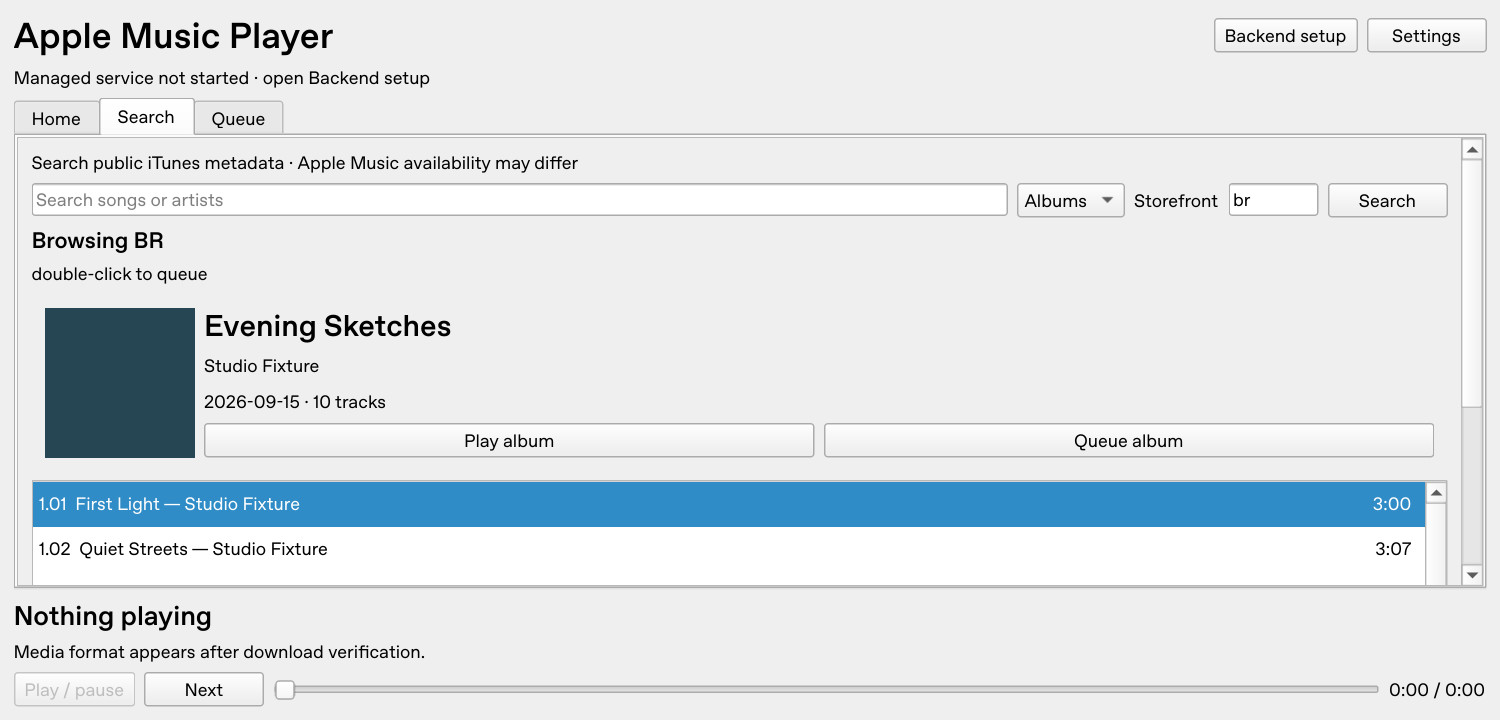
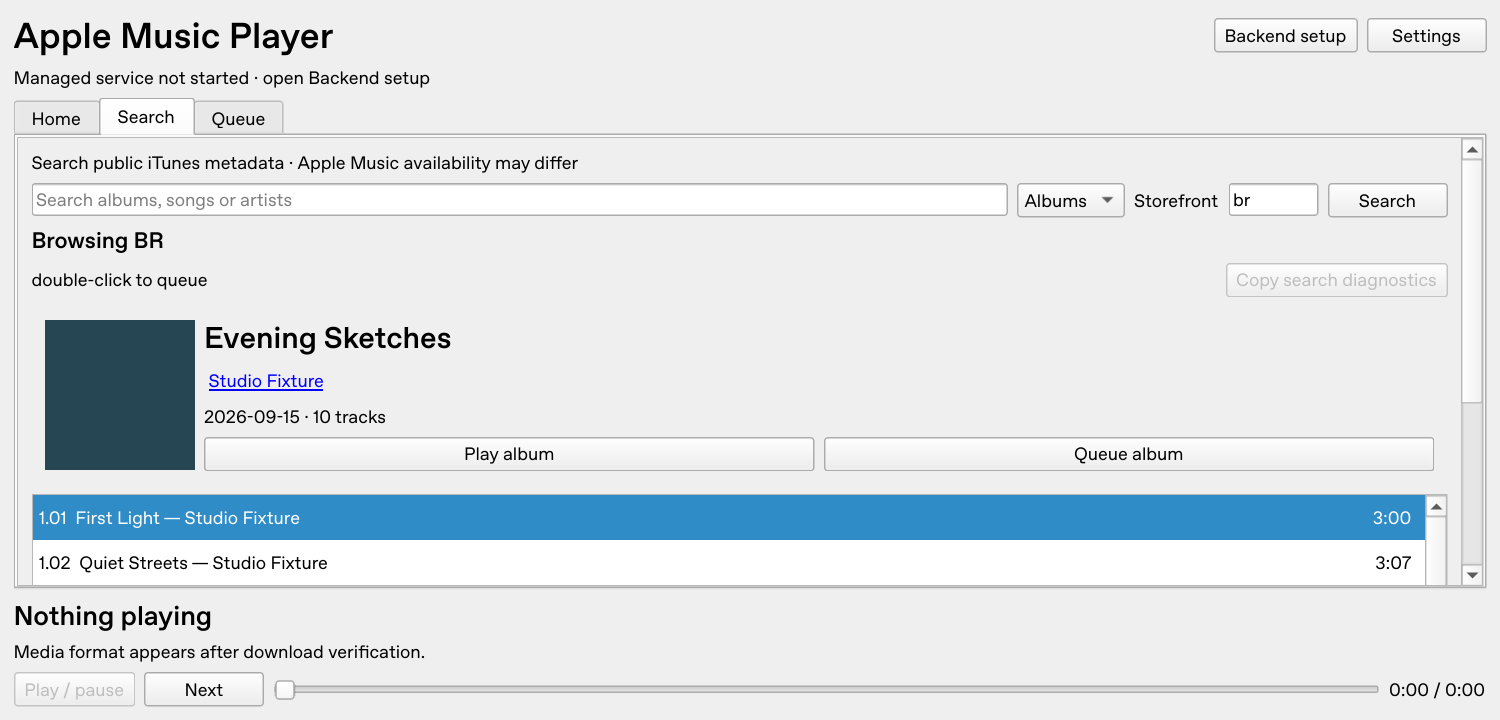
Link album artist names to internal artist browsing

diff --git a/tests/test_artist_browsing.py b/tests/test_artist_browsing.py
@@ -1,6 +1,7 @@
 import json
 import threading
 
+import pytest
 from conftest import wait_until
 from PySide6.QtWidgets import QApplication
 
@@ -141,6 +142,126 @@ def test_stale_artist_lookup_cannot_overwrite_new_region_search(app, tmp_path, m
         wait_until(lambda: (app.processEvents(), window.tick(), window.catalog_future is None)[2])
         assert window.results == [Artist("gb", "302", "New artist", "Alternative")]
         assert window.last_artist_diagnostics is None
+    finally:
+        release.set()
+        window.close()
+
+
+def test_album_artist_button_navigates_by_collection_identity(app, tmp_path, monkeypatch):
+    from PySide6.QtCore import Qt
+    from PySide6.QtTest import QTest
+
+    window = Window(tmp_path / "cache")
+    window.startup_attempted = True
+    monkeypatch.setattr(window.controller, "tick", lambda: None)
+    calls = []
+
+    def request(endpoint, **params):
+        calls.append(params)
+        if params["entity"] == "album":
+            return [ARTIST, ALBUM]
+        return [ALBUM, dict(SONG, artistId=999, artistName="Guest performer")]
+
+    monkeypatch.setattr(window.catalog, "request", request)
+
+    def settle():
+        wait_until(lambda: (app.processEvents(), window.tick(), window.catalog_future is None)[2])
+
+    try:
+        window.show()
+        window.open_album(Album("br", "101", "Atlanta Millionaires Club"))
+        settle()
+        button = window.album_header.artist
+        assert button.isEnabled()
+        assert button.text() == "Faye Webster"
+        assert "Open artist albums" in button.accessibleName()
+        QTest.mouseClick(button, Qt.LeftButton)
+        assert "Loading" in window.catalog_status.text()
+        settle()
+        assert calls[-1] == dict(id="301", country="br", entity="album", limit=200)
+        assert window.results[0].id == "101"
+        window.selected_button.click()
+        settle()
+        assert window.album_header.artist.isEnabled()
+        assert window.album_tracks[0].artist_id == "999"
+        assert window.album_header.album.artist_id == "301"
+        window.album_header.artist.setFocus()
+        QTest.keyClick(window.album_header.artist, Qt.Key_Space)
+        settle()
+        assert calls[-1]["id"] == "301"
+        assert not window.controller.queue
+    finally:
+        window.close()
+
+
+@pytest.mark.parametrize(
+    "collection",
+    [
+        dict(ALBUM, artistId=""),
+        dict(ALBUM, artistId="invalid"),
+        dict(ALBUM, artistName="Various Artists", artistId=""),
+        None,
+    ],
+)
+def test_missing_album_artist_id_never_infers_track_performer(
+    app, tmp_path, monkeypatch, collection
+):
+    window = Window(tmp_path / "cache")
+    window.startup_attempted = True
+    monkeypatch.setattr(window.controller, "tick", lambda: None)
+    monkeypatch.setattr(
+        window.catalog, "request", lambda *a, **k: ([collection] if collection else []) + [SONG]
+    )
+    try:
+        window.open_album(Album("br", "101", "Fixture"))
+        wait_until(lambda: (app.processEvents(), window.tick(), window.catalog_future is None)[2])
+        assert not window.album_header.artist.isEnabled()
+        assert "did not provide" in window.album_header.artist.toolTip()
+        window.album_header.artist.click()
+        assert window.catalog_future is None
+    finally:
+        window.close()
+
+
+def test_artist_link_error_and_superseded_navigation(app, tmp_path, monkeypatch):
+    from apple_music_player.model import PlayerError
+
+    window = Window(tmp_path / "cache")
+    window.startup_attempted = True
+    monkeypatch.setattr(window.controller, "tick", lambda: None)
+    started, release = threading.Event(), threading.Event()
+    fail = [True]
+
+    def request(endpoint, **params):
+        if params["entity"] == "album":
+            if fail[0]:
+                raise PlayerError("Catalog unavailable")
+            started.set()
+            assert release.wait(3)
+            return [ALBUM]
+        return [ALBUM, SONG]
+
+    monkeypatch.setattr(window.catalog, "request", request)
+
+    def settle():
+        wait_until(lambda: (app.processEvents(), window.tick(), window.catalog_future is None)[2])
+
+    try:
+        window.open_album(Album("br", "101", "Fixture"))
+        settle()
+        window.album_header.artist.click()
+        settle()
+        assert window.catalog_status.text() == "Catalog unavailable"
+        assert window.album_header.artist.isEnabled()  # Retained page permits retry.
+        fail[0] = False
+        window.album_header.artist.click()
+        assert started.wait(2)
+        window.open_album(Album("gb", "101", "New navigation"))
+        release.set()
+        settle()
+        assert window.album_header.album.country == "gb"
+        assert window.album_tracks and window.album_tracks[0].country == "gb"
+        assert not window.controller.queue
     finally:
         release.set()
         window.close()

diff --git a/src/apple_music_player/browsing.py b/src/apple_music_player/browsing.py
@@ -1,5 +1,6 @@
 """Small native album panels shared by Home, catalog detail and now playing."""
 
+import re
 from urllib.parse import urlsplit
 
 from PySide6.QtCore import QEvent, QRect, QSize, Qt, Signal
@@ -19,6 +20,7 @@ from PySide6.QtWidgets import (
 )
 
 from .artwork import BADGE_URL, allowed_url
+from .model import Artist
 
 
 def store_link(album):
@@ -163,6 +165,8 @@ class AlbumCard(QFrame):
 class AlbumHeader(QWidget):
     """One album identity above its compact track list; no per-track artwork."""
 
+    artist_opened = Signal(object)
+
     def __init__(self, artwork):
         super().__init__()
         self.artwork, self.album = artwork, None
@@ -176,8 +180,16 @@ class AlbumHeader(QWidget):
         self.title.setTextFormat(Qt.PlainText)
         self.title.setWordWrap(True)
         self.title.setStyleSheet("font-size: 20px; font-weight: 600")
-        self.artist = QLabel()
-        self.artist.setTextFormat(Qt.PlainText)
+        self.artist = QPushButton()
+        self.artist.setFlat(True)
+        self.artist.setCursor(Qt.PointingHandCursor)
+        self.artist.setStyleSheet(
+            "QPushButton { text-align: left; padding: 2px; border: 1px solid transparent; }"
+            "QPushButton:enabled { color: palette(link); text-decoration: underline; }"
+            "QPushButton:enabled:hover, QPushButton:enabled:focus {"
+            " border: 1px solid palette(highlight); }"
+        )
+        self.artist.clicked.connect(self.open_artist)
         self.details = QLabel()
         self.details.setTextFormat(Qt.PlainText)
         text.addWidget(self.title)
@@ -193,11 +205,28 @@ class AlbumHeader(QWidget):
         self.setVisible(album is not None)
         if album:
             self.title.setText(album.album_title or album.title.removesuffix(" — " + album.artist))
-            self.artist.setText(album.artist)
+            self.artist.setText(album.artist.replace("&", "&&"))
+            available = bool(album.artist and re.fullmatch(r"[0-9]+", album.artist_id))
+            self.artist.setEnabled(available)
+            self.artist.setCursor(Qt.PointingHandCursor if available else Qt.ArrowCursor)
+            self.artist.setAccessibleName(
+                ("Open artist albums: " if available else "Album artist: ") + album.artist
+            )
+            self.artist.setToolTip(
+                "Open this artist’s albums in the player"
+                if available
+                else "The catalog did not provide an album artist ID"
+            )
             self.details.setText(
                 " · ".join(x for x in (album.release_date[:10], f"{count} tracks") if x)
             )
             set_artwork_pixmap(self.cover, QImage())
+
+    def open_artist(self):
+        if self.album and self.artist.isEnabled():
+            self.artist_opened.emit(
+                Artist(self.album.country, self.album.artist_id, self.album.artist)
+            )
 
     def refresh(self):
         if not self.album or not allowed_url(self.album.artwork_url):

diff --git a/src/apple_music_player/app.py b/src/apple_music_player/app.py
@@ -4,6 +4,7 @@ import re
 import sys
 import time
 from concurrent.futures import ThreadPoolExecutor
+from dataclasses import replace
 from pathlib import Path
 
 from PySide6.QtCore import QSize, Qt, QTimer, QUrl
@@ -246,6 +247,7 @@ class Window(QMainWindow):
         )
         layout.addLayout(diagnostics_row)
         self.album_header = AlbumHeader(self.artwork)
+        self.album_header.artist_opened.connect(self.open_artist)
         layout.addWidget(self.album_header)
         self.result_list = QListWidget()
         self.result_list.setItemDelegate(TrackRowDelegate(self.result_list))
@@ -400,6 +402,9 @@ class Window(QMainWindow):
 
     def show_album_header(self):
         album = self.album_tracks[0].album if self.album_tracks else None
+        if album:
+            # Navigation needs the collection's identity, not an inferred track performer.
+            album = replace(album, artist_id=self.album_tracks[0].album_artist_id)
         self.album_header.set_album(album, len(self.album_tracks))
         self.browse_button.setVisible(album is None)
         if album:

diff --git a/src/apple_music_player/catalog.py b/src/apple_music_player/catalog.py
@@ -263,9 +263,7 @@ class Catalog:
                 **row,
                 "_album_artist": collection.get("artistName", "") or row.get("artistName", ""),
                 "_album_artist_id": (
-                    collection.get("artistId", "")
-                    if collection.get("artistName")
-                    else row.get("artistId", "")
+                    collection.get("artistId", "") if collection.get("artistName") else ""
                 ),
             }
             for row in rows

diff --git a/README.md b/README.md
@@ -20,7 +20,7 @@ ruff format --check src tests
 **Requirements:** `mpv`, `ffprobe` (normally packaged with ffmpeg), and Qt Wayland libraries. Tests also use `ffmpeg` to generate synthetic audio. Backend setup lists missing tools; it does not install OS packages. Managed amdl v0.1.4 handles normal audio finalization natively; GPAC/MP4Box is not required.
 
 1. Open **Settings**, select your cache size. For Dolby, set your HDMI device from `mpv --audio-device=help`. The validated machine used `alsa/hdmi:CARD=HDMI,DEV=3`; your device may differ.
-2. Search defaults to **Albums** with **BR** for new configurations. Choose **Songs**, **Albums** or **Artists**, enter a query and your two-letter storefront, then Search. For example, search Albums for `daughter if you leave`, select **If You Leave — Daughter** if available, and **Open album** (or double-click) to see its tracks. **Play album** starts from the first track and replaces current playback/queue; **Queue album** appends those songs. Album detail shows one cover/header and compact numbered tracks. Song results use **Queue selected**; **Browse album** opens the selected song's album. An album URL also opens its track list. For artist browsing, choose **Artists**, search a name, then **Open artist** to list albums using its exact artist ID; open an album to play it. Availability and ranking depend on the public catalog/storefront.
+2. Search defaults to **Albums** with **BR** for new configurations. Choose **Songs**, **Albums** or **Artists**, enter a query and your two-letter storefront, then Search. For example, search Albums for `daughter if you leave`, select **If You Leave — Daughter** if available, and **Open album** (or double-click) to see its tracks. **Play album** starts from the first track and replaces current playback/queue; **Queue album** appends those songs. Album detail shows one cover/header and compact numbered tracks. Click its artist name to open that artist’s albums inside the player when the collection supplies an artist ID. Song results use **Queue selected**; **Browse album** opens the selected song's album. An album URL also opens its track list. For artist browsing, choose **Artists**, search a name, then **Open artist** to list albums using its exact artist ID; open an album to play it. Availability and ranking depend on the public catalog/storefront.
 3. Choose **Prefer Lossless** or **Prefer Dolby Atmos** before queueing. Playback starts after a full download; only the next track is prefetched. Use pause, seek, Next, Remove, Cancel download and Retry. Device changes apply to the next playback; Retry restarts failed playback.
 
 **Media format is measured, not assumed.** Now playing shows Lossless (ALAC/FLAC), Lossy (AAC/AC-3), Dolby Digital Plus / Atmos unverified, or Dolby Atmos when ffprobe reports a JOC profile. Codec, sample rate, channels and available bit depth are shown. Requested-quality fallbacks are conspicuous. The separate output label reports mpv's PCM or compressed passthrough state, never receiver-confirmed Atmos. Dolby playback requires an explicit device and stops if mpv reports PCM fallback. Confirm Atmos on your soundbar. No app volume control is provided.

diff --git a/docs/browsing.md b/docs/browsing.md
@@ -63,3 +63,9 @@ Six real-event-loop regression cases cover all search modes with delayed artwork
 The larger-result follow-up found a separate layout loop missed by the 19-row test: fetching every result's artwork overflowed the 64-image memory LRU and evicted the shared badge. Reloading that badge repeatedly hid/showed its strip, resizing the browsing area about five times per second (200 distinct synthetic covers; about 85 reloads/second). Search now requests cover images only for visible rows, plus the existing selected/detail/now-playing consumers. The badge is retained within the same bounded 64-image budget. Scrolling still requests newly visible artwork.
 
 The 200-result probe now records no idle paint/resize/layout/show/hide events for four seconds after initial loading, at normal and 150% scaling. Additional event-loop regressions cover 200 album/artist results, success/failure, scroll, resize and steady managed-status polling; a cache test proves the badge survives eviction without growing the memory budget. This is independent synthetic reproduction; the user's inaccessible recording and real desktop behavior still require local retesting.
+
+## Album artist navigation and portrait availability
+
+The album header's artist name is a keyboard-accessible internal navigation button. It opens albums using the collection's artist ID and storefront, without affecting playback or queue contents. Missing/invalid IDs leave the name disabled with an explanation. A compilation uses its returned collection artist identity when available; a guest track performer is never substituted for a missing album artist ID. Failed requests retain the displayed album for retry; newer navigation supersedes older responses.
+
+Artist portraits are not implemented. Apple's [Artist attributes](https://developer.apple.com/documentation/applemusicapi/artists/attributes-data.dictionary) explicitly define artist image artwork, but [Apple Music API](https://developer.apple.com/documentation/applemusicapi/) requests require a developer token. Our public [iTunes response documentation](https://developer.apple.com/library/archive/documentation/AudioVideo/Conceptual/iTuneSearchAPI/UnderstandingSearchResults.html) describes optional media artwork, not a guaranteed artist-portrait field. No live public artist response with genuine portrait provenance could be verified in this environment. Artist results therefore stay text-only; no album-cover substitution, guessed image URLs, new credentials or web scraping are introduced. The wrapper session does not supply the separate developer token.
